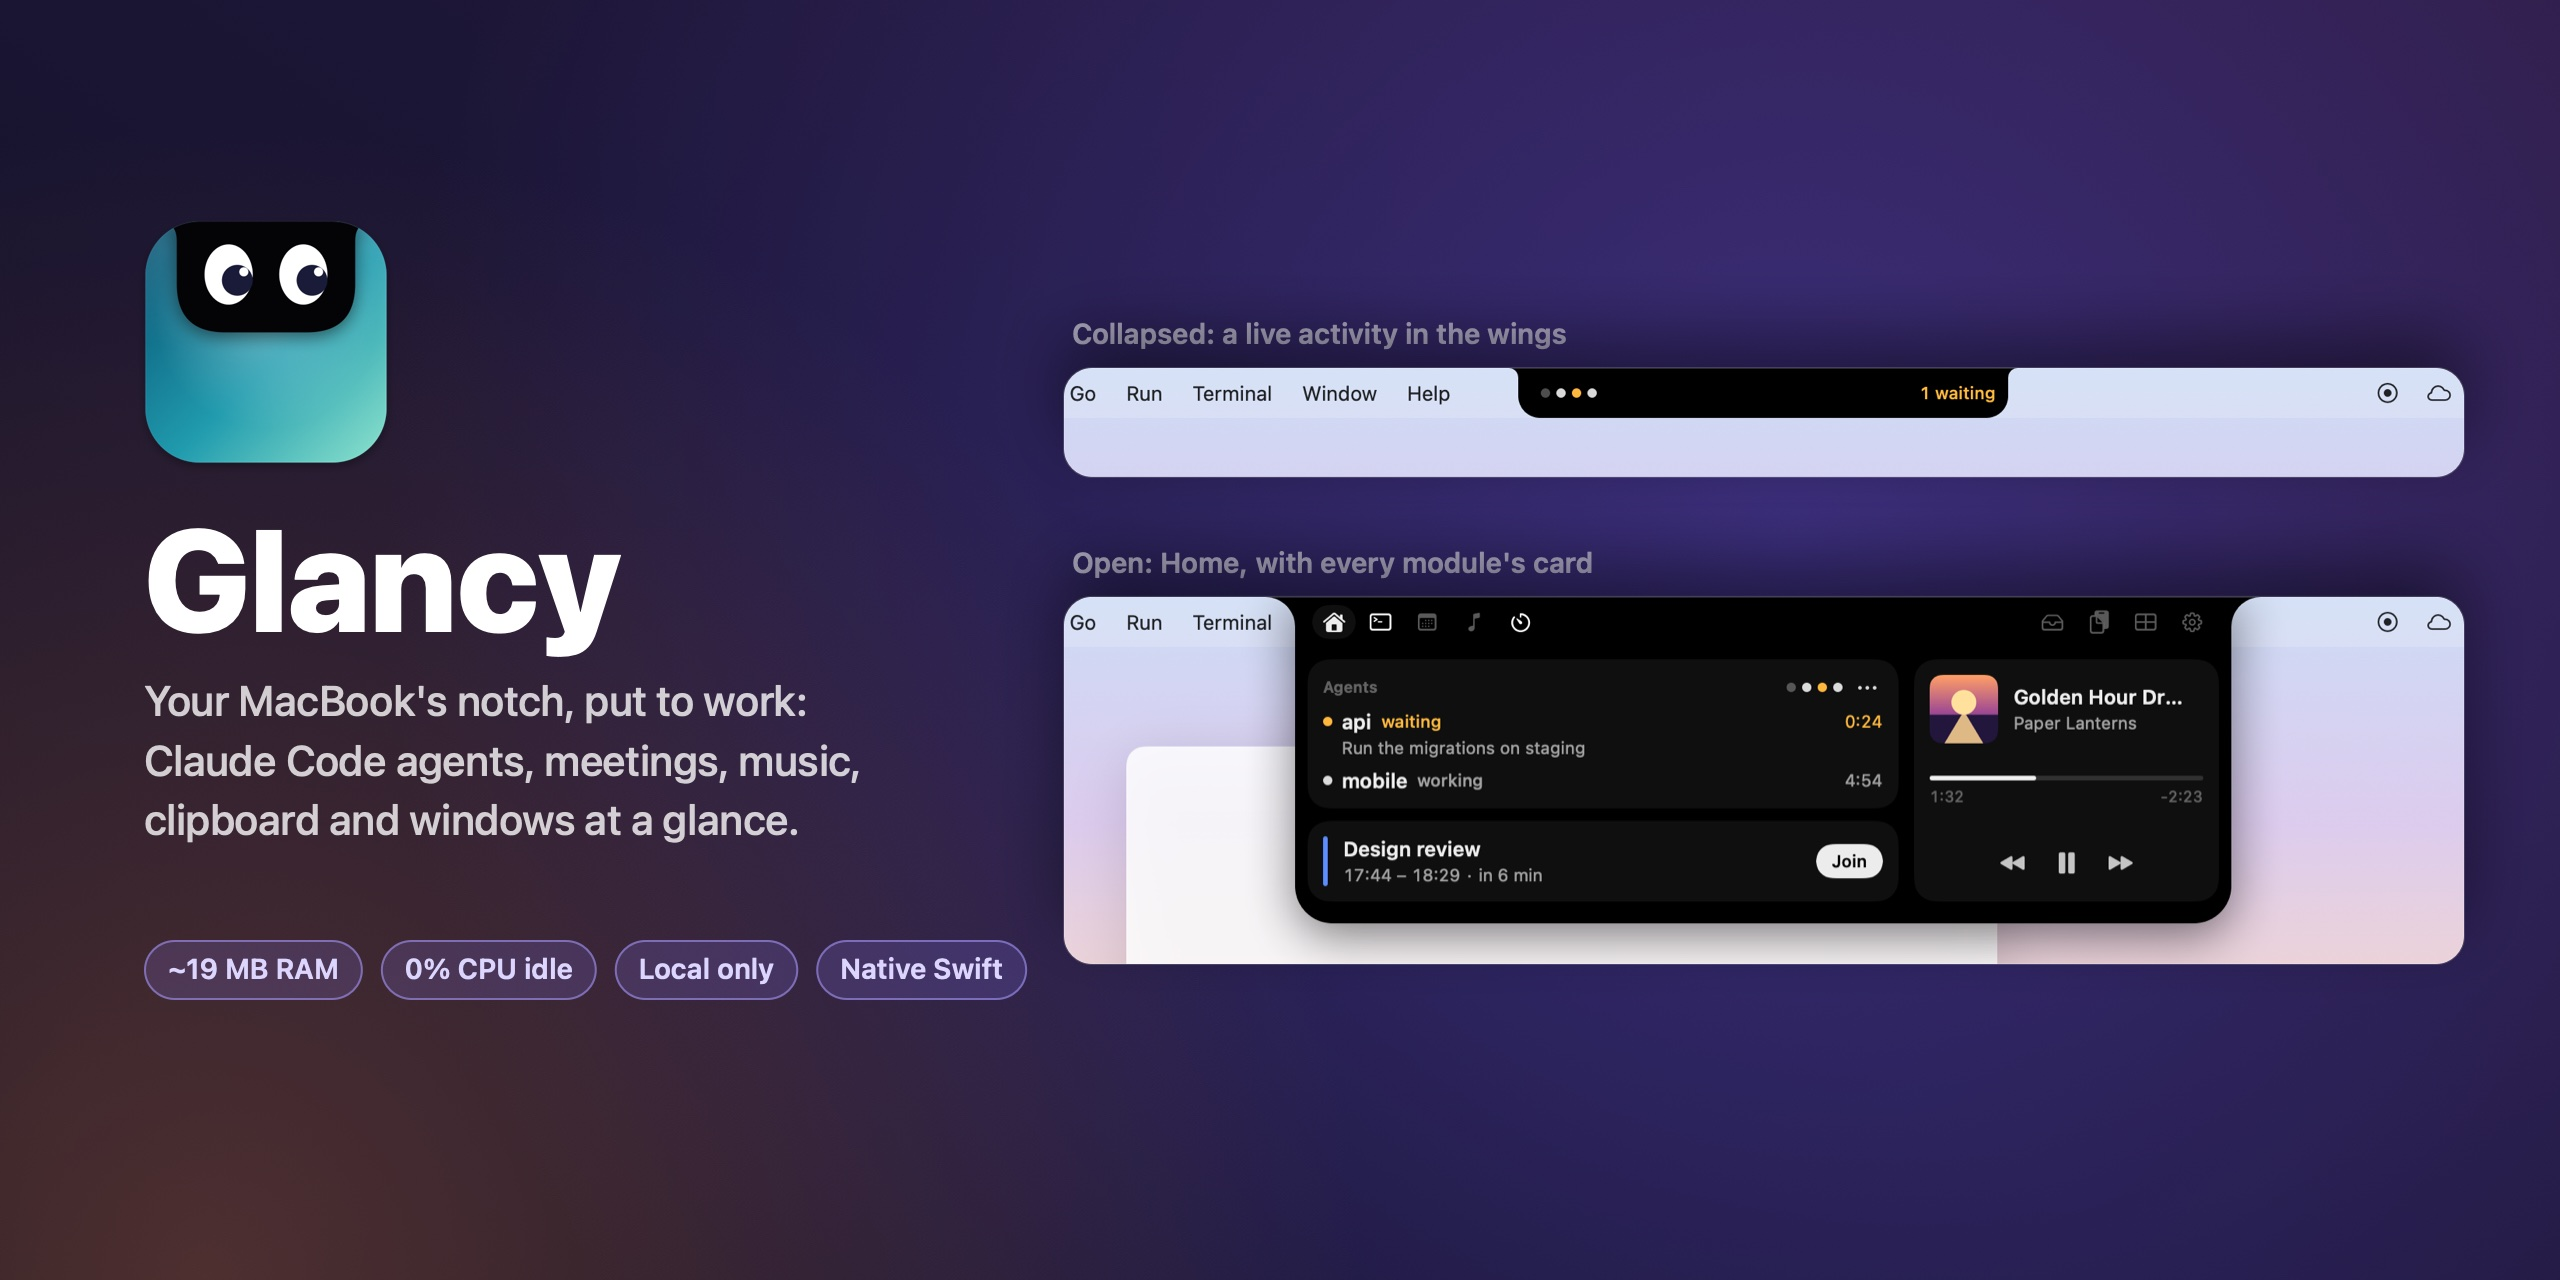
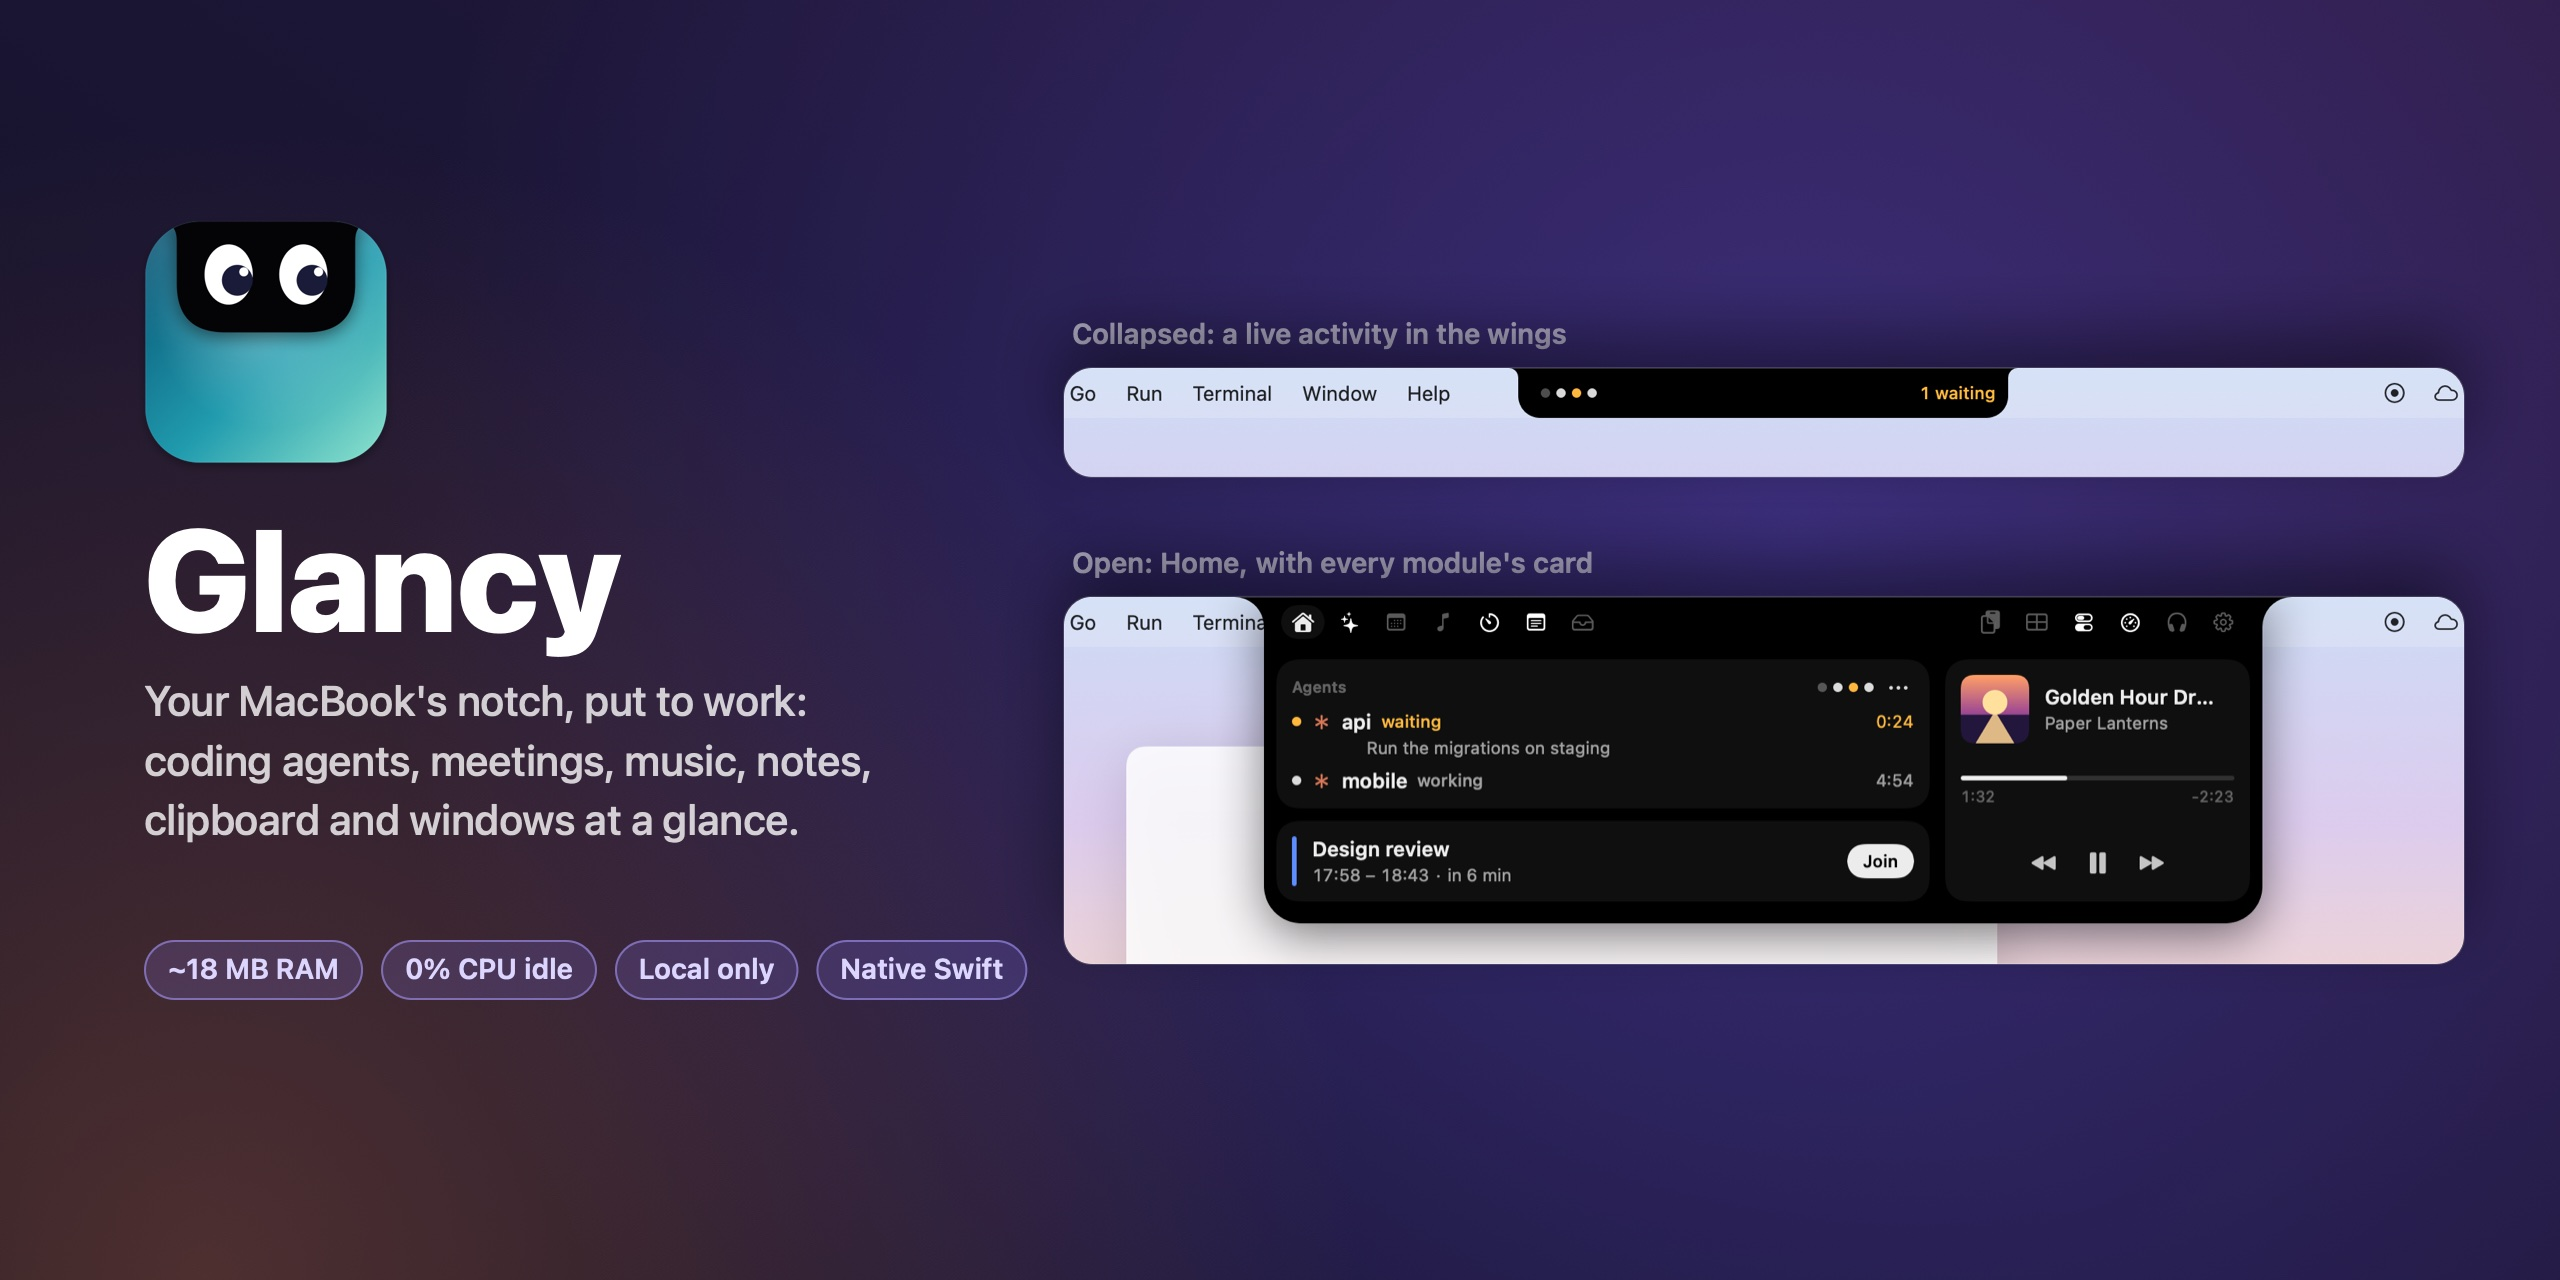
README images: ten current tabs (Agents from every source, Notes, Command bar, Control, Monitor) from demo data, hero copy updated; Download for macOS button

diff --git a/scripts/compose.swift b/scripts/compose.swift
@@ -1,6 +1,7 @@
 // Composes the README images from glancy-render --demo output (made-up data only).
 // Usage: swift scripts/compose.swift <renders dir> <icon.png> <out dir>
-// Reads 02-activity.png, 05-expanded-home.png and the 06-tab-* renders (900×290 pt at 2×).
+// Reads 02-activity.png, 05-expanded-home.png, the 06-tab-* renders and a few state renders
+// (13-agents-sources-tab, 11-command-currency, 11-control-awake, 12-monitor-cpu), all 900×290 pt at 2×.
 // Writes hero.png (1280×640 pt) and screens.png (1280 pt wide), both at 2×.
 
 import AppKit
@@ -93,10 +94,10 @@ canvas(1280, 640, "hero.png") { r in
     icon.draw(in: NSRect(x: left - 14, y: 96, width: 150, height: 150), from: .zero, operation: .sourceOver, fraction: 1,
               respectFlipped: true, hints: nil)
     text("Glancy", at: NSPoint(x: left, y: 246), size: 72, weight: .heavy)
-    text("Your MacBook's notch, put to work:\nClaude Code agents, meetings, music,\nclipboard and windows at a glance.",
+    text("Your MacBook's notch, put to work:\ncoding agents, meetings, music, notes,\nclipboard and windows at a glance.",
          at: NSPoint(x: left, y: 338), size: 21, weight: .medium, color: NSColor.white.withAlphaComponent(0.78), width: 470)
     var cx = left
-    for chip in ["~19 MB RAM", "0% CPU idle", "Local only", "Native Swift"] {
+    for chip in ["~18 MB RAM", "0% CPU idle", "Local only", "Native Swift"] {
         let w = textWidth(chip, size: 14, weight: .semibold) + 24
         let c = NSRect(x: cx, y: 470, width: w, height: 30)
         rgb(0x8A7BFF, 0.18).setFill()
@@ -121,23 +122,42 @@ canvas(1280, 640, "hero.png") { r in
     screen(home, crop: NSRect(x: 0, y: 0, width: W, height: homeH), in: NSRect(x: colX, y: y, width: colW, height: homeH * k))
 }
 
-// MARK: screens.png — six tabs, two columns
+// MARK: screens.png — ten tabs, two columns
 
-let tabs: [(String, String)] = [
-    ("05-expanded-home.png", "Home"), ("06-tab-1-agents.png", "Agents"),
-    ("06-tab-2-calendar.png", "Calendar"), ("06-tab-3-media.png", "Media"),
-    ("06-tab-6-clipboard.png", "Clipboard"), ("06-tab-7-windows.png", "Windows"),
+/// The board with every agent source; its render runs the Agents module alone, so the full tab
+/// strip (same geometry, same selected tab) comes from the regular Agents tab render.
+let agentsBoard: NSImage = {
+    let board = load("13-agents-sources-tab.png"), strip = load("06-tab-1-agents.png")
+    // Drawn lazily at the destination's resolution (lockFocus would rasterise at 1×).
+    let stripH: CGFloat = 36
+    let img = NSImage(size: board.size, flipped: true) { all in
+        board.draw(in: all, from: .zero, operation: .copy, fraction: 1, respectFlipped: true, hints: nil)
+        strip.draw(in: NSRect(x: 0, y: 0, width: all.width, height: stripH),
+                   from: NSRect(x: 0, y: strip.size.height - stripH, width: strip.size.width, height: stripH),
+                   operation: .copy, fraction: 1, respectFlipped: true, hints: nil)
+        return true
+    }
+    return img
+}()
+
+let tabs: [(NSImage, String)] = [
+    (load("05-expanded-home.png"), "Home"), (agentsBoard, "Agents: Claude Code, Codex, OpenCode"),
+    (load("06-tab-2-calendar.png"), "Calendar"), (load("06-tab-3-media.png"), "Media"),
+    (load("06-tab-5-notes.png"), "Notes and voice notes"), (load("11-command-currency.png"), "Command bar"),
+    (load("11-control-awake.png"), "Control"), (load("12-monitor-cpu.png"), "Monitor"),
+    (load("06-tab-7-clipboard.png"), "Clipboard"), (load("06-tab-8-windows.png"), "Windows"),
 ]
-let cellW: CGFloat = 576, cropH: CGFloat = 228, k = cellW / W, cellH = cropH * k
-let gapX: CGFloat = 40, top: CGFloat = 44, rowGap: CGFloat = 64
-let screensH = top + 3 * cellH + 2 * rowGap + 70
+let cellW: CGFloat = 576, cropH: CGFloat = 214, k = cellW / W, cellH = cropH * k
+let gapX: CGFloat = 40, top: CGFloat = 44, rowGap: CGFloat = 60
+let rows = CGFloat((tabs.count + 1) / 2)
+let screensH = top + rows * cellH + (rows - 1) * rowGap + 66
 canvas(1280, screensH, "screens.png") { r in
     duskBackground(r)
     let x0 = (r.width - 2 * cellW - gapX) / 2
-    for (i, (file, caption)) in tabs.enumerated() {
+    for (i, (img, caption)) in tabs.enumerated() {
         let col = CGFloat(i % 2), row = CGFloat(i / 2)
         let x = x0 + col * (cellW + gapX), y = top + row * (cellH + rowGap)
-        screen(load(file), crop: NSRect(x: 0, y: 0, width: W, height: cropH), in: NSRect(x: x, y: y, width: cellW, height: cellH))
+        screen(img, crop: NSRect(x: 0, y: 0, width: W, height: cropH), in: NSRect(x: x, y: y, width: cellW, height: cellH))
         let w = textWidth(caption, size: 16, weight: .semibold)
         text(caption, at: NSPoint(x: x + (cellW - w) / 2, y: y + cellH + 14), size: 16, weight: .semibold,
              color: NSColor.white.withAlphaComponent(0.8))
